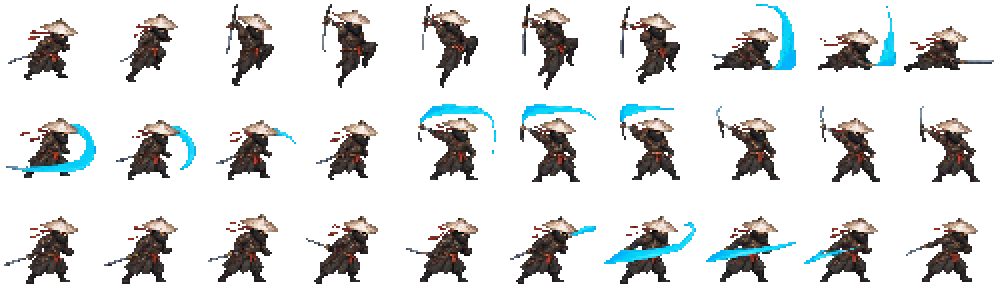
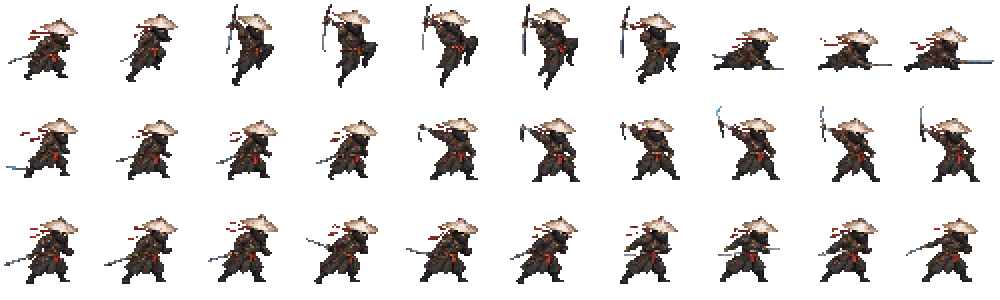
공격 시트지 수정

diff --git a/animation_viewer.py b/animation_viewer.py
@@ -25,7 +25,7 @@ def load_images():
     sword_dice_roll = load_image('asset/Sword_Dice_Roll.png')
     sword_dice = load_image('asset/Sword_Dice.png')
     runs = load_image('asset/Run.png')
-    normal_attack = load_image('asset/attack_sheet.png')
+    normal_attack = load_image('asset/attack_sheet1.png')
     idle_animation = load_image('asset/Player_Idle.png')
     trail = load_image('asset/attack_trail.png')
     
